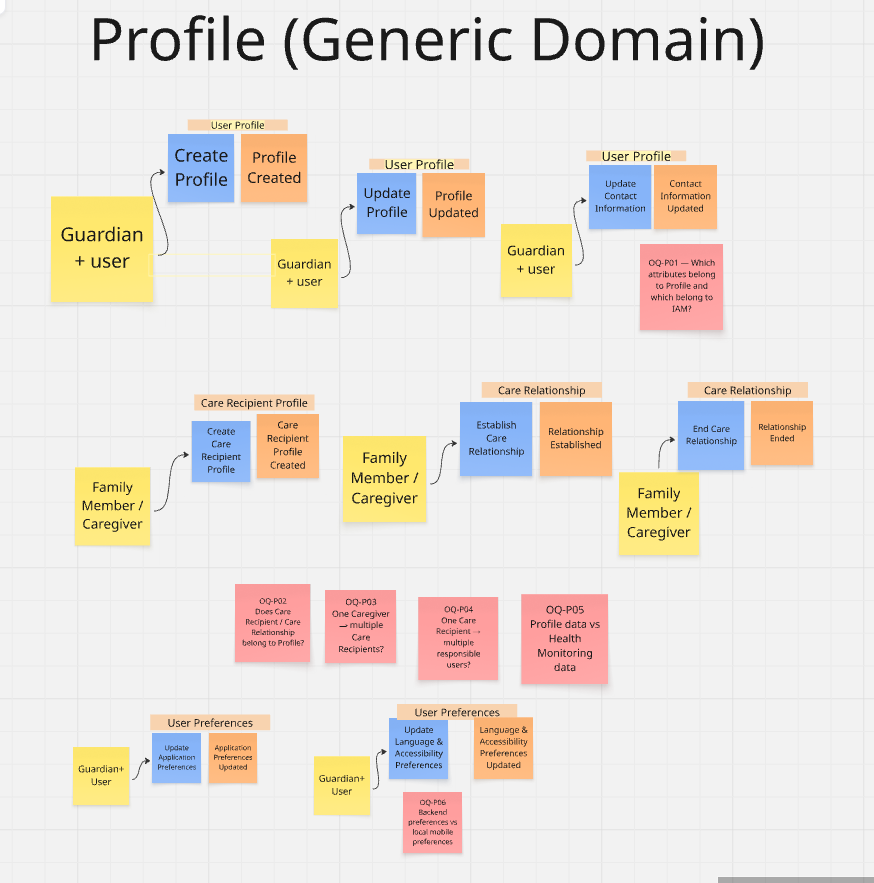
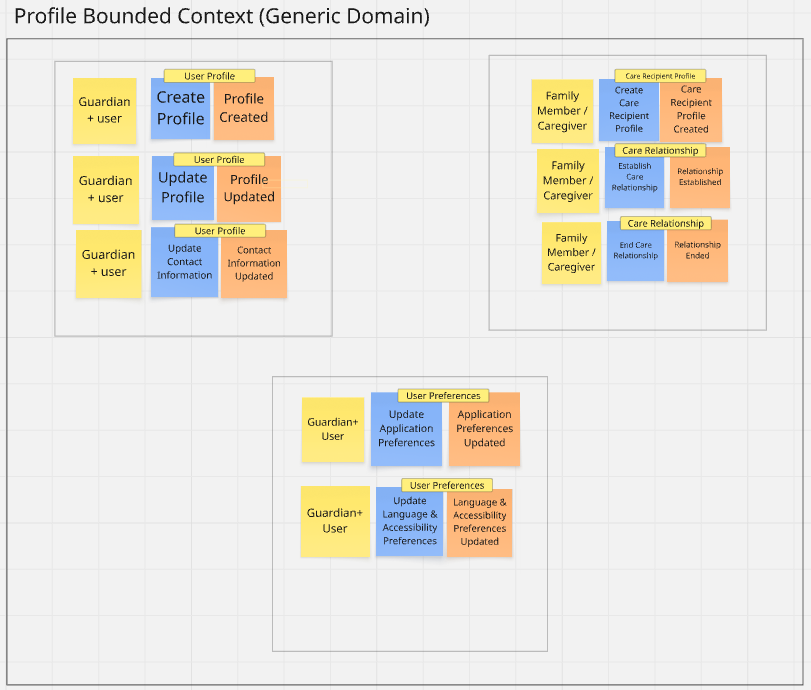
docs(event-storming): homologate profile and subscriptions

diff --git a/report/02-chapter.md b/report/02-chapter.md
@@ -2033,35 +2033,51 @@ La Figura 2.21 presenta el EventStorming del Bounded Context Profile.
 
 <a id="figura-2-21"></a>**Figura 2.21.** EventStorming del Bounded Context Profile
 
+El Bounded Context **Profile** concentra las capacidades relacionadas con la administración de la información descriptiva de los usuarios de Guardian+, las personas bajo cuidado, las relaciones de cuidado y las preferencias de uso de la aplicación. Mediante la sesión de EventStorming se identificaron los principales actores, comandos y eventos de dominio involucrados en estos procesos, permitiendo delimitar las responsabilidades correspondientes a este contexto.
+
+La siguiente figura presenta el EventStorming correspondiente al **Profile Bounded Context**, organizado de acuerdo con los principales procesos identificados dentro del dominio.
+
 ![Profile EventStorming](../assets/images/chapterII/EventStorming/PROFILE.png)
 
-Este contexto candidato gestiona la información asociada a los perfiles de los usuarios y de las personas bajo cuidado, así como las relaciones existentes entre familiares, cuidadores y Care Recipients. También contempla la gestión de información de contacto y preferencias de uso de la aplicación.
+**Figura: EventStorming del Profile Bounded Context.**
 
-Su Lenguaje Ubicuo incluye conceptos como perfil de usuario, perfil de persona bajo cuidado, relación de cuidado, información de contacto, preferencias de aplicación, idioma y accesibilidad.
+En el diagrama, las notas amarillas representan los actores que interactúan con el contexto, las notas azules representan los comandos que expresan una intención o acción sobre el dominio y las notas naranjas representan los eventos de dominio producidos como resultado de dichas acciones. Esta organización permite visualizar los principales flujos bajo la secuencia **Actor → Command → Domain Event**.
 
-Se clasificó como **Generic Domain** debido a que proporciona información fundamental para que otros contextos puedan operar correctamente, pero sus capacidades corresponden principalmente a gestión de perfiles y relaciones, y no constituyen el núcleo diferenciador de Guardian+.
+En la parte superior izquierda de la figura se agrupan las operaciones relacionadas con el perfil del usuario. El actor `Guardian+ User` puede ejecutar los comandos `Create Profile`, `Update Profile` y `Update Contact Information`, generando respectivamente los eventos `Profile Created`, `Profile Updated` y `Contact Information Updated`. Estos flujos representan las acciones necesarias para crear y mantener actualizada la información descriptiva de una persona usuaria de Guardian+.
 
+En la parte superior derecha se representan las operaciones relacionadas con las personas bajo cuidado y las relaciones de cuidado. Un `Family Member / Caregiver` puede ejecutar `Create Care Recipient Profile` para registrar a una persona bajo cuidado, generando `Care Recipient Profile Created`. Asimismo, puede establecer o finalizar una relación de cuidado mediante los comandos `Establish Care Relationship` y `End Care Relationship`, produciendo los eventos `Relationship Established` y `Relationship Ended`.
 
+Finalmente, en la parte inferior se encuentran las operaciones asociadas a las preferencias del usuario. El actor `Guardian+ User` puede modificar las preferencias generales de la aplicación mediante `Update Application Preferences`, así como configurar aspectos de idioma y accesibilidad mediante `Update Language & Accessibility Preferences`. Como resultado se generan los eventos `Application Preferences Updated` y `Language & Accessibility Preferences Updated`.
+
+A partir de estos flujos se identificó un Lenguaje Ubicuo compuesto por conceptos como **User Profile**, **Care Recipient Profile**, **Care Relationship**, **Contact Information**, **Application Preferences**, **Language** y **Accessibility Preferences**, los cuales permiten mantener una terminología consistente entre el modelado del dominio y su posterior implementación.
+
+El contexto **Profile** se clasificó como **Generic Domain**, debido a que sus capacidades de administración de perfiles, relaciones y preferencias son necesarias para el funcionamiento de Guardian+, pero corresponden a funcionalidades comunes que no constituyen el principal elemento diferenciador de la propuesta de valor del producto.
 
 ##### Subscriptions Bounded Context (Generic Domain)
 
-Las Figuras 2.22 y 2.23 presentan el EventStorming del Bounded Context Subscriptions, dividido en dos partes por su extensión.
+El Bounded Context **Subscriptions** concentra las capacidades relacionadas con el ciclo de vida comercial de las suscripciones de Guardian+. Mediante la sesión de EventStorming se identificaron los principales actores, comandos, eventos de dominio, reglas de decisión y sistemas externos involucrados en los procesos de solicitud, activación, cambio de plan, cancelación, expiración y renovación de una suscripción, así como en la actualización de los beneficios asociados a cada plan.
 
-<a id="figura-2-22"></a>**Figura 2.22.** EventStorming del Bounded Context Subscriptions (parte 1)
+La Figura 2.22 presenta el EventStorming correspondiente al **Subscriptions Bounded Context**, organizado de acuerdo con los principales procesos identificados dentro de este dominio.
 
-![Subscriptions EventStorming - Parte 1](../assets/images/chapterII/EventStorming/subscription1.png)
+<a id="figura-2-22"></a>**Figura 2.22.** EventStorming del Bounded Context Subscriptions
 
-<a id="figura-2-23"></a>**Figura 2.23.** EventStorming del Bounded Context Subscriptions (parte 2)
+![Subscriptions EventStorming](../assets/images/chapterII/EventStorming/Subscription.png)
 
-![Subscriptions EventStorming - Parte 2](../assets/images/chapterII/EventStorming/Subscription2.png)
+En el diagrama, las notas amarillas representan los actores que interactúan con el contexto, las notas azules representan los comandos ejecutados sobre el dominio, las notas naranjas corresponden a los eventos de dominio generados como resultado de dichas acciones, las notas moradas representan reglas o decisiones que determinan el comportamiento del proceso y las notas verdes representan sistemas externos o componentes de soporte, como `Billing Scheduler` y `Payment Provider`.
 
-Este contexto candidato concentra las reglas relacionadas con el ciclo de vida comercial de las suscripciones de Guardian+. Incluye la solicitud y activación de suscripciones, cambios de plan, renovación, cancelación, expiración y administración de los beneficios asociados a cada plan.
+En la parte superior izquierda se representa el proceso de solicitud y activación de una suscripción. El actor `Subscriber` inicia el flujo mediante `Request Subscription`, generando `Subscription Requested`. A partir de `Determine Subscription Activation Requirements`, el proceso puede continuar directamente hacia la activación cuando corresponde a un plan gratuito o iniciar el flujo de pago mediante `Initiate Subscription Payment`. En este último caso, el resultado del proveedor de pagos determina si la suscripción puede activarse mediante `Activate Subscription After Successful Payment` o si el proceso finaliza con un pago fallido.
 
-Su Lenguaje Ubicuo se encuentra relacionado con conceptos como suscripción, plan, pago, renovación, cancelación, expiración y entitlement.
+La parte central izquierda reúne los flujos relacionados con la consulta del estado de la suscripción y la administración de entitlements. El usuario puede consultar el estado de su suscripción mediante `Check Subscription Status` y revisar los beneficios disponibles mediante `Check Available Entitlements`. Asimismo, las reglas `Determine Entitlements After Activation`, `Recalculate Plan Entitlements`, `Recalculate Entitlements After Cancellation` y `Determine Remaining Entitlements` permiten actualizar los beneficios asociados a la suscripción mediante `Update Entitlements`.
 
-Se clasificó como **Generic Domain** porque permite implementar el modelo comercial y controlar los beneficios disponibles para los usuarios, pero no representa la principal fuente de innovación o diferenciación de Guardian+.
+En la parte superior derecha se presenta el proceso de cancelación. Luego de `Request Subscription Cancellation`, la regla `Determine Cancellation Effective Date` permite distinguir entre una cancelación inmediata y una cancelación efectiva al finalizar el ciclo de facturación. En el primer caso se ejecuta `Cancel Subscription`, mientras que en el segundo interviene `Billing Scheduler` para ejecutar `Expire Scheduled Subscription`.
 
+En la parte inferior izquierda se representa el cambio de plan. El flujo inicia con `Request Plan Change`, continúa con `Determine Plan Change Conditions` y `Apply Plan Change`, y posteriormente recalcula y actualiza los entitlements correspondientes al nuevo plan.
 
+Finalmente, la parte inferior derecha agrupa los procesos de expiración y renovación. `Billing Scheduler` evalúa periódicamente si una suscripción debe expirar o renovarse. En el proceso de expiración se utilizan `Evaluate Subscription Expiration`, `Determine Expiration Conditions` y `Expire Subscription`. En el proceso de renovación se ejecutan `Evaluate Subscription Renewal`, `Determine Renewal Requirements` e `Initiate Renewal Payment`, incorporando la interacción con `Payment Provider` y contemplando tanto la confirmación como el fallo del pago antes de renovar la suscripción.
+
+A partir de estos flujos se identificó un Lenguaje Ubicuo compuesto por conceptos como **Subscription**, **Plan**, **Payment**, **Renewal**, **Cancellation**, **Expiration** y **Entitlement**, permitiendo mantener una terminología consistente entre el modelado del dominio y su posterior implementación.
+
+El contexto **Subscriptions** se clasificó como **Generic Domain**, debido a que sus capacidades permiten implementar el modelo comercial de Guardian+ y controlar los beneficios disponibles para los usuarios, pero corresponden a funcionalidades comunes que no representan la principal fuente de innovación o diferenciación de la solución.
 
 Como resultado del Candidate Context Discovery, el equipo estableció una primera descomposición estratégica del dominio de Guardian+. Los contextos **Emergency & Alerting** y **Health Monitoring** fueron reconocidos como parte del Core Domain debido a su relación directa con la propuesta de valor principal de la solución. **Care Routines & Wellness** y **Mobility & Geofencing** fueron clasificados como Supporting Domains debido a que complementan y fortalecen las capacidades centrales de cuidado. Finalmente, **IAM**, **Profile** y **Subscriptions** fueron identificados como Generic Domains al representar capacidades necesarias para el funcionamiento de la plataforma, pero comunes a otros tipos de sistemas.
 
